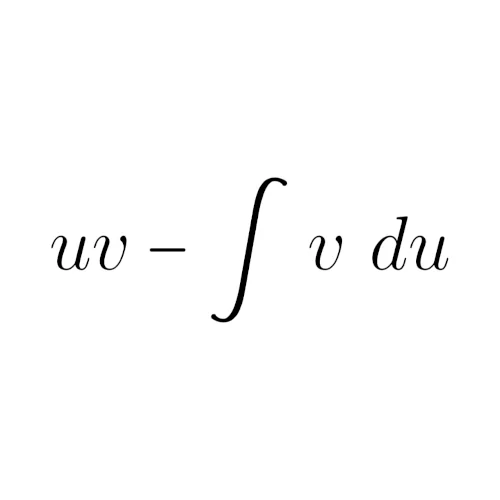
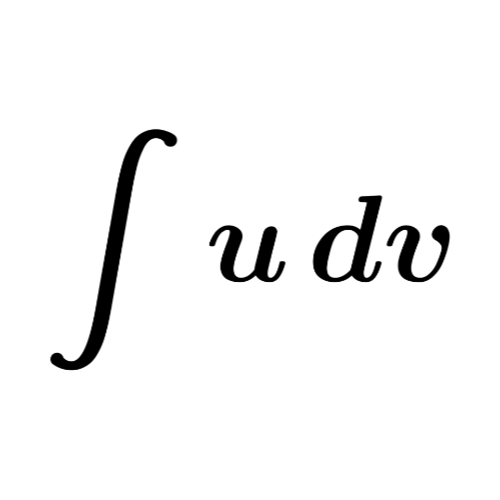
Updated 252

diff --git a/teaching/uo/252/notes/12-integration-by-parts/index.html b/teaching/uo/252/notes/12-integration-by-parts/index.html
@@ -27,7 +27,9 @@
 
 !begin-text-block
 	
-	The only technique we have to compute integrals at the moment is $u$-sub, which is an analogue of the chain rule. What we&#x2019;ll introduce in this section is an analogue of the product rule. As before, it will look different in practice, but it really is the same thing. If $u$ and $v$ are differentiable functions, then we have
+	The only technique we have to compute integrals at the moment is $u$-sub, which is an analogue of the chain rule. What we&#x2019;ll introduce in this section is an analogue of the product rule. As before, it will look different in practice, but we&#x2019;ll see that it&#x2019;s really just the same thing in the end.
+	
+	If $u$ and $v$ are differentiable functions, then
 	
 	$$
 		\frac{d}{dx} [uv] = \frac{d}{dx}[u] \cdot v + u \cdot \frac{d}{dx}[v].
@@ -42,13 +44,13 @@
 	Taking the strange step of multiplying both sides of this equation by $dx$, we have
 	
 	$$
-		u\ dv = d(uv) - v\ du.
+		u\,dv = d(uv) - v\,du.
 	$$
 	
 	And now if we integrate both sides, we get
 	
 	$$
-		\int u\ dv = uv - \int v\ du.
+		\int u\,dv = uv - \int v\,du.
 	$$
 	
 	This is the form we&#x2019;ll use, but just like with $u$-sub, we have a process to make it easier than having to interpret this somewhat obscure formula.
@@ -61,13 +63,13 @@
 	
 	integration by parts
 	
-	To evaluate $\int f(x) g(x)\ dx$ with integration by parts, you need to be able differentiate $f(x)$ and integrate $g(x)$. Let $u = f(x)$ and $dv = g(x)\ dx$. Then find $du = f'(x)\ dx$ and $v = \int g(x)\ dx$, and rewrite the integral as
+	To evaluate $\int f(x) g(x)\,dx$ with integration by parts, we need to be able differentiate $f(x)$ and integrate $g(x)$. Let $u = f(x)$ and $dv = g(x)\,dx$. Then find $du = f'(x)\,dx$ and $v = \int g(x)\,dx$, and rewrite the integral as
 	
 	$$
-		uv - \int v\ du.
+		uv - \int v\,du.
 	$$
 	
-	Then attempt to solve the integral left in this equation &mdash; if the process was successful, it will now be integrable. You may need to repeat the process on this new integral.
+	Then attempt to solve the integral left in this equation &mdash; if the process was successful, it will now be integrable. We may need to repeat the process on this new integral.
 	
 !end-thm
 
@@ -77,14 +79,20 @@
 	
 	integration by parts
 	
-	Find $\int x\sin(x)\ dx$.
+	Find $\displaystyle \int x\sin(x)\,dx$.
 	
-	We can&#x2019;t do this directly, since we (probably) don&#x2019;t know a function whose derivative is $x\sin(x)$. There&#x2019;s also no composition here, so all we have left is integration by parts. The two parts are $x$ and $\sin(x)$, and we&#x2019;re going to differentiate one and integrate the other. If we integrate $x$, we&#x2019;re going to get $\frac{x^2}{2}$, and that&#x2019;s <strong>more complicated,</strong> so that&#x2019;s probably a bad idea. Instead, let&#x2019;s try differentiating it. That means letting $u = x$ and $dv = \sin(x)\ dx$. Then $du = dx$ and $v = \int \sin(x)\ dx = -\cos(x)$ (we drop the $+C$ until the end of the problem to keep things simple). Our integral now becomes
+	We can&#x2019;t do this directly, since we (probably) don&#x2019;t know a function whose derivative is $x\sin(x)$. There&#x2019;s also no composition here, so all we have left is integration by parts. The two parts are $x$ and $\sin(x)$, and we&#x2019;re going to differentiate one and integrate the other. If we integrate $x$, we&#x2019;re going to get $\frac{x^2}{2}$, and that&#x2019;s <strong>more complicated,</strong> which means it&#x2019;s probably a bad idea. Instead, let&#x2019;s try differentiating it. That means letting $u = x$ and $dv = \sin(x)\,dx$. Then $du = dx$ and
+	
+	$$
+		v = \int \sin(x)\,dx = -\cos(x)
+	$$
+	
+	(we drop the $+C$ until the end of the problem to keep things simple). Our integral now becomes
 	
 	$$
 		\begin{align*}
-			\int x\sin(x)\ dx &= uv - \int v\ du\\
-			&= -x\cos(x) - \int -\cos(x)\ dx\\
+			\int x\sin(x)\,dx &= uv - \int v\,du\\
+			&= -x\cos(x) - \int -\cos(x)\,dx\\
 			&= -x\cos(x) + \sin(x) + C.
 		\end{align*}
 	$$
@@ -95,16 +103,16 @@
 	
 	integration by parts
 	
-	Find $\int ye^y\ dy$.
-	
-	Solution: just like in the last example, let $u = y$ and $dv = e^y\ dy$. Then $du = dy$ and $v = e^y$, so we get
+	Find $\displaystyle \int ye^y\,dy$.
+	<!--
+	<strong>Solution:</strong> just like in the last example, let $u = y$ and $dv = e^y\,dy$. Then $du = dy$ and $v = e^y$, so we get
 	
 	$$
 		\begin{align*}
-			ye^y - \int e^y\ dy &= ye^y - e^y + C.
+			ye^y - \int e^y\,dy &= ye^y - e^y + C.
 		\end{align*}
 	$$
-	
+	-->
 !end-exercise
 
 
@@ -113,12 +121,12 @@
 	
 	integration by parts
 	
-	Find $\int \frac{\ln(t)}{t^2}\ dt$.
+	Find $\displaystyle \int \frac{\ln(t)}{t^2}\,dt$.
 	
 	There are lots of choices for $u$ and $dv$ &mdash; here are just a few:
 	
 	$$
-		u = \ln(t),\ dv = \frac{1}{t^2}\ dt
+		u = \ln(t),\ dv = \frac{1}{t^2}\,dt
 	$$
 	
 	$$
@@ -126,14 +134,14 @@
 	$$
 	
 	$$
-		u = \frac{1}{t},\ dv = \frac{\ln(t)}{t}\ dt
+		u = \frac{1}{t},\ dv = \frac{\ln(t)}{t}\,dt
 	$$
 	
-	In general, we want to choose $u$ and $dv$ such that the resulting integral is as simple as possible. For example, since the derivative of $\ln(t)$ is $\frac{1}{t}$ but the integral is $t\ln(t) - t + C$, we almost certainly want $\ln(t)$ to be part of $u$ instead of $dv$ so that it gets differentiated. The simplest way to do that is just to take $u = \ln(t)$ and $dv = \frac{1}{t^2}\ dt$ &mdash; let&#x2019;s see how that goes. We have $du = \frac{1}{t}\ dt$ and $v = -\frac{1}{t}$, so we get
+	In general, we want to choose $u$ and $dv$ such that the resulting integral is as simple as possible. For example, since the derivative of $\ln(t)$ is $\frac{1}{t}$ but the integral is $t\ln(t) - t + C$, we almost certainly want $\ln(t)$ to be part of $u$ instead of $dv$ so that it gets differentiated. The simplest way to do that is just to take $u = \ln(t)$ and $dv = \frac{1}{t^2}\,dt$ &mdash; let&#x2019;s see how that goes. We have $du = \frac{1}{t}\,dt$ and $v = -\frac{1}{t}$, so we get
 	
 	$$
 		\begin{align*}
-			\int \frac{\ln(t)}{t^2}\ dt &= -\frac{\ln(t)}{t} - \int -\frac{1}{t^2}\ dt\\
+			\int \frac{\ln(t)}{t^2}\,dt &= -\frac{\ln(t)}{t} - \int -\frac{1}{t^2}\,dt\\
 			&= -\frac{\ln(t)}{t} - \frac{1}{t} + C.
 		\end{align*}
 	$$
@@ -154,20 +162,20 @@
 	
 	integration by parts twice
 	
-	Find $\int x^2 e^{3x}\ dx$.
+	Find $\displaystyle \int x^2 e^{3x}\,dx$.
 	
-	We know that $x^2$ gets simpler when we differentiate it, and $e^{3x}$ stays as complicated when integrated, so let&#x2019;s try $u = x^2$ and $dv = e^{3x}\ dx$. Then $du = 2x\ dx$ and $v = \frac{1}{3}\ e^{3x}$. Now the integral becomes
+	We know that $x^2$ gets simpler when we differentiate it, and $e^{3x}$ stays as complicated when integrated, so let&#x2019;s try $u = x^2$ and $dv = e^{3x}\,dx$. Then $du = 2x\ dx$ and $v = \frac{1}{3}e^{3x}$. Now the integral becomes
 	
 	$$
-		\int x^2 e^{3x}\ dx = \frac{1}{3} x^2 e^{3x} - \int \frac{2}{3} x e^{3x}\ dx.
+		\int x^2 e^{3x}\,dx = \frac{1}{3} x^2 e^{3x} - \int \frac{2}{3} x e^{3x}\,dx.
 	$$
 	
-	To evaluate this integral, we need to do integration by parts again. It works almost exactly the same as before: $u = \frac{2}{3} x$ and $dv = e^{3x}\ dx$. Then $du = \frac{2}{3}\ dx$ and $v = \frac{1}{3}\ e^{3x}$ once again, so we have
+	To evaluate this integral, we need to do integration by parts again. It works almost exactly the same as before: $u = \frac{2}{3} x$ and $dv = e^{3x}\,dx$. Then $du = \frac{2}{3}\,dx$ and $v = \frac{1}{3}e^{3x}$ once again, so we have
 	
 	$$
 		\begin{align*}
-			\int x^2 e^{3x}\ dx &= \frac{1}{3} x^2 e^{3x} - \int \frac{2}{3} x e^{3x}\ dx\\
-			&= \frac{1}{3} x^2 e^{3x} - \left( \frac{2}{9} xe^{3x} - \int \frac{2}{9} e^{3x}\ dx \right)\\
+			\int x^2 e^{3x}\,dx &= \frac{1}{3} x^2 e^{3x} - \int \frac{2}{3} x e^{3x}\,dx\\
+			&= \frac{1}{3} x^2 e^{3x} - \left( \frac{2}{9} xe^{3x} - \int \frac{2}{9} e^{3x}\,dx \right)\\
 			&= \frac{1}{3} x^2 e^{3x} - \frac{2}{9} x e^{3x} + \frac{2}{27} e^{3x} + C.
 		\end{align*}
 	$$
@@ -178,18 +186,18 @@
 	
 	integration by parts twice
 	
-	Find $\int t^2 \cos(2t)\ dt$.
+	Find $\displaystyle \int t^2 \cos(2t)\ dt$.
 	
-	Solution: by the same logic, let $u = t^2$ and $dv = \cos(2t)\ dt$. Then $du = 2t\ dt$ and $v = \frac{1}{2} \sin(2t)\ dt$, so the integral becomes
-	
-	$$
-		\frac{1}{2}t^2\sin(2t) - \int \frac{1}{2} \sin(2t) (2t)\ dt = \frac{1}{2}t^2\sin(2t) - \int t \sin(2t)\ dt.
-	$$
-	
-	This is similar to the previous examples we&#x2019;ve done: let $u = t$ and $dv = \sin(2t)\ dt$. Then $du = dt$ and $v = -\frac{1}{2} \cos(2t)$, so we get
+	<strong>Solution:</strong> by the same logic, let $u = t^2$ and $dv = \cos(2t)\,dt$. Then $du = 2t\ dt$ and $v = \frac{1}{2} \sin(2t)\,dt$, so the integral becomes
 	
 	$$
-		\frac{1}{2}t^2\sin(2t) - \left(-\frac{1}{2} t \cos(2t) - \int -\frac{1}{2} \cos(2t)\ dt \right) = \frac{1}{2}t^2\sin(2t) + \frac{1}{2} t \cos(2t) - \frac{1}{4} \sin(2t) + C.
+		\frac{1}{2}t^2\sin(2t) - \int \frac{1}{2} \sin(2t) (2t)\,dt = \frac{1}{2}t^2\sin(2t) - \int t \sin(2t)\,dt.
+	$$
+	
+	This is similar to the previous examples we&#x2019;ve done: let $u = t$ and $dv = \sin(2t)\,dt$. Then $du = dt$ and $v = -\frac{1}{2} \cos(2t)$, so we get
+	
+	$$
+		\frac{1}{2}t^2\sin(2t) - \left(-\frac{1}{2} t \cos(2t) - \int -\frac{1}{2} \cos(2t)\,dt \right) = \frac{1}{2}t^2\sin(2t) + \frac{1}{2} t \cos(2t) - \frac{1}{4} \sin(2t) + C.
 	$$
 	
 !end-exercise
@@ -208,18 +216,18 @@
 	
 	integration by parts and $u$-sub
 	
-	Find $\int y^3 e^{y^2}\ dy$.
+	Find $\displaystyle \int y^3 e^{y^2}\,dy$.
 	
-	Let&#x2019;s follow the instructions above and try $u$-sub first. The only option is to let $u = y^2$ and $du = 2y\ dy$, which gives us
-	
-	$$
-		\int \frac{1}{2} ue^u\ du.
-	$$
-	
-	Now we have an integration by parts problem, since there is no composition in this integral and it&#x2019;s a product we don&#x2019;t know how to integrate. Normally we use $u$ and $v$ for variables, but now we&#x2019;ve already used $u$, so let&#x2019;s pick another variable &mdash; say $w$. Therefore, $w = \frac{1}{2} u$, $dv = e^u\ du$, and so $dw = \frac{1}{2} du$ and $v = e^u$. Now we get
+	Let&#x2019;s follow the instructions above and try $u$-sub first. The only option is to let $u = y^2$ and $du = 2y\,dy$, which gives us
 	
 	$$
-		u e^u - \int \frac{1}{2} e^u\ du = u e^u - \frac{1}{2} e^u + C.
+		\int \frac{1}{2} ue^u\,du.
+	$$
+	
+	Now we have an integration by parts problem, since there is no composition in this integral and it&#x2019;s a product we don&#x2019;t know how to integrate. Normally we use $u$ and $v$ for variables, but now we&#x2019;ve already used $u$, so let&#x2019;s pick another variable &mdash; say $w$. Therefore, $w = \frac{1}{2} u$, $dv = e^u\,du$, and so $dw = \frac{1}{2}\,du$ and $v = e^u$. Now we get
+	
+	$$
+		u e^u - \int \frac{1}{2} e^u\,du = u e^u - \frac{1}{2} e^u + C.
 	$$
 	
 	Finally, we can back-substitute for $y$:
@@ -241,14 +249,14 @@
 	Since we&#x2019;re revolving about the $y$-axis and have a function given in terms of $x$, we should try the shell method first. The intersection of $\cos(x)$ with $y = 0$ gives $x = \frac{\pi}{2}$, so the integral comes out to
 	
 	$$
-		\int_0^{\pi / 2} 2\pi x\cos(x)\ dx.
+		\int_0^{\pi / 2} 2\pi x\cos(x)\,dx.
 	$$
 	
-	Now we need to apply integration by parts to this. As usual, $u = 2\pi x$ and $dv = \cos(x)\ dx$, so $du = 2\pi\ dx$ and $dv = \sin(x)\ dx$, but this example is different in that we have a definite integral. To handle that, we apply integration by parts and evaluate the entire expression.
+	Now we need to apply integration by parts to this. As usual, $u = 2\pi x$ and $dv = \cos(x)\,dx$, so $du = 2\pi\,dx$ and $v = \sin(x)$, but this example is different in that we have a definite integral. To handle that, we apply integration by parts and evaluate the entire expression.
 	
 	$$
 		\begin{align*}
-			\int_0^{\pi / 2} 2\pi x\cos(x)\ dx &= \left. \left[ 2\pi x\sin(x) - \int 2\pi \sin(x)\ dx \right] \right|_0^{\pi / 2}\\
+			\int_0^{\pi / 2} 2\pi x\cos(x)\,dx &= \left. \left[ 2\pi x\sin(x) - \int 2\pi \sin(x)\,dx \right] \right|_0^{\pi / 2}\\
 			&= \left. \left[ 2\pi x\sin(x) + 2\pi \cos(x) \right] \right|_0^{\pi / 2}\\
 			&= \pi^2 - 2\pi.
 		\end{align*}
@@ -260,18 +268,18 @@
 	
 	integration by parts on definite integrals
 	
-	Find $\int_1^3 x^3 \sin(x^2)\ dx$.
-	
-	Solution: we see a composition ($\sin(x^2)$), so we should try $u$-sub before integrating by parts. Let $u = x^2$, so that $du = 2x\ dx$. Then $\frac{1}{2} du = x\ dx$, so the integral becomes
-	
-	$$
-		\int_1^3 \frac{1}{2} u \sin(u)\ du.
-	$$
-	
-	Now there&#x2019;s nothing left to do but integrate by parts. We&#x2019;re already using $u$ as a variable, so let&#x2019;s set $w = \frac{1}{2}u$ and $dv = \sin(u)\ du$. Then we have $dw = \frac{1}{2}\ du$ and $v = -\cos(u)$, so the integral becomes
+	Find $\displaystyle \int_1^3 x^3 \sin(x^2)\,dx$.
+	<!--
+	<strong>Solution:</strong> we see a composition ($\sin(x^2)$), so we should try $u$-sub before integrating by parts. Let $u = x^2$, so that $du = 2x\,dx$. Then $\frac{1}{2}\,du = x\,dx$, so the integral becomes
 	
 	$$
-		-\frac{1}{2} u \cos(u) + \int \frac{1}{2} \cos(u)\ du = -\frac{1}{2} u \cos(u) + \frac{1}{2} \sin(u).
+		\int_1^3 \frac{1}{2} u \sin(u)\,du.
+	$$
+	
+	Now there&#x2019;s nothing left to do but integrate by parts. We&#x2019;re already using $u$ as a variable, so let&#x2019;s set $w = \frac{1}{2}u$ and $dv = \sin(u)\,du$. Then we have $dw = \frac{1}{2}\,du$ and $v = -\cos(u)$, so the integral becomes
+	
+	$$
+		-\frac{1}{2} u \cos(u) + \int \frac{1}{2} \cos(u)\,du = -\frac{1}{2} u \cos(u) + \frac{1}{2} \sin(u).
 	$$
 	
 	Now it&#x2019;s time to back-substitute for $u$.
@@ -285,7 +293,7 @@
 	$$
 		\left. \left[ -\frac{1}{2} x^2 \cos(x^2) + \frac{1}{2} \sin(x^2) \right] \right|_1^3 = \frac{1}{2} (\sin(9) - 9\cos(9) - \sin(1) + \cos(1)).
 	$$
-	
+	-->
 !end-exercise
 
 

diff --git a/teaching/uo/252/notes/10-arc-length-and-surface-area/index.html b/teaching/uo/252/notes/10-arc-length-and-surface-area/index.html
@@ -127,7 +127,7 @@
 	arc length
 	
 	Find the arc length of $\displaystyle y = x^{2/3}$ on $[0, 2]$. (Hint: rewrite it as a function of $y$.)
-	<!--
+	
 	<strong>Solution:</strong> as a function of $y$, we have $x = y^{3/2}$, and the interval runs from $y = 0^{3/2} = 0$ to $y = 2^{3/2} = \sqrt{8}$. As before, we have $f'(y) = 3y^{1/2}$, so $f'(y)^2 = 9y$. Then the arc length is
 	
 	$$
@@ -140,7 +140,7 @@
 			&= \frac{2}{27} \left( (1 + 9\sqrt{8})^{3/2} - 1 \right).
 		\end{align*}
 	$$
-	-->
+	
 !end-exercise
 
 
@@ -204,13 +204,13 @@
 	surface area
 	
 	Find the surface area of the solid created by revolving the graph of $y = x$ on $[1, 3]$ about the $x$-axis.
-	<!--
-	Solution: we have $f'(x) = 1$, so $(f'(x))^2 = 1$. Then the integral becomes
+	
+	<strong>Solution:</strong> we have $f'(x) = 1$, so $(f'(x))^2 = 1$. Then the integral becomes
 	
 	$$
 		\int_1^3 2\pi x \sqrt{2}\ dx = 2\pi\sqrt{2}\left( \frac{9}{2} - \frac{1}{2} \right).
 	$$
-	-->
+	
 !end-exercise
 
 
